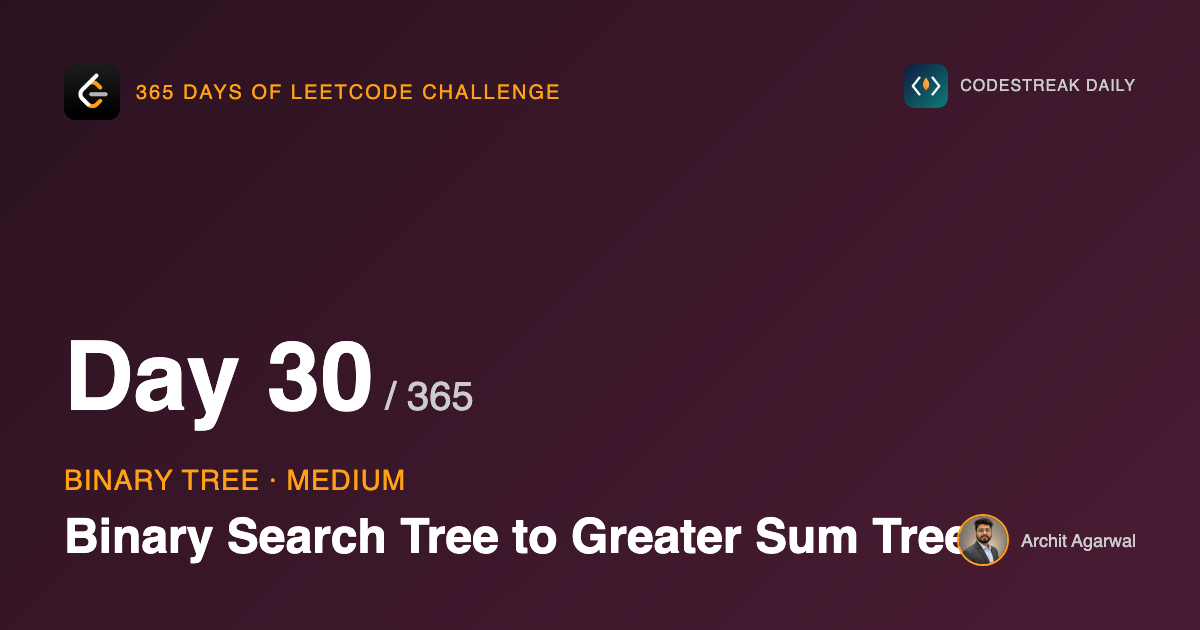
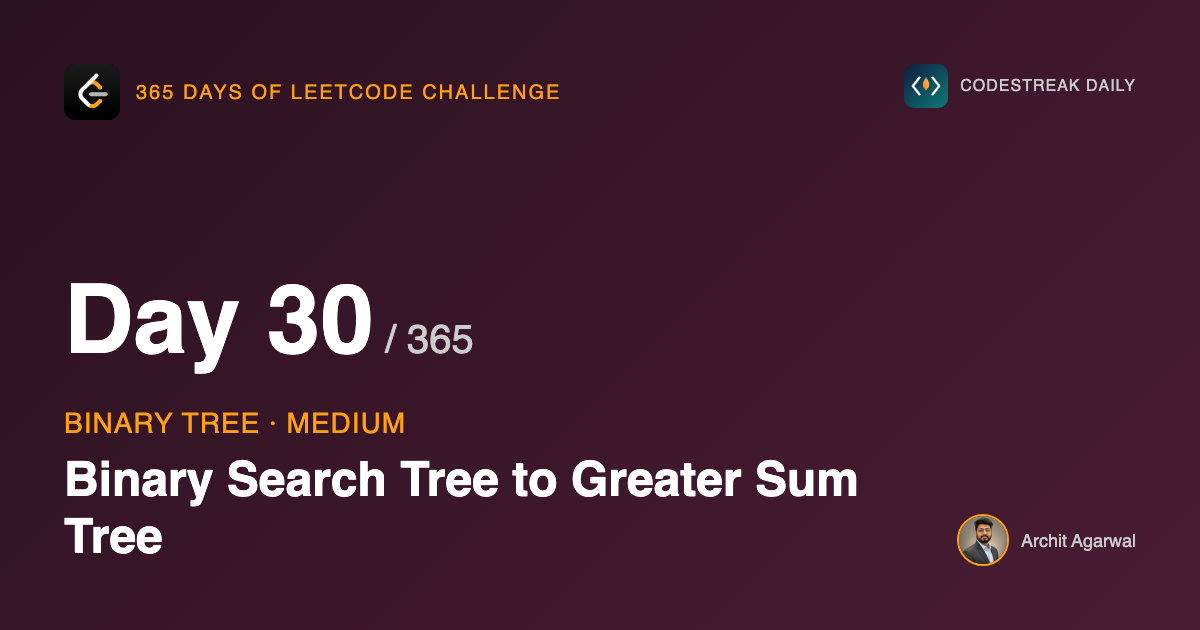
fix(challenge): wrap long hero titles so they clear the author block
Cap .title at 840px. Titles past ~36 characters were running underneath
the absolutely positioned .author block; days 30 and 31 were both clipped.
Re-rendered those two heroes.

Changed region(s): [[0.0308, 0.7238, 0.8017, 0.9048], [0.0308, 0.4222, 0.4008, 0.6937]]

diff --git a/challenge/hero_template.html b/challenge/hero_template.html
@@ -20,7 +20,9 @@
   .day { font-size: 96px; font-weight: 800; margin: 24px 0 0 0; }
   .day small { font-size: 40px; font-weight: 500; color: #cccccc; }
   .meta { font-size: 28px; color: #ffa116; text-transform: uppercase; letter-spacing: 1px; margin-bottom: 12px; }
-  .title { font-size: 48px; font-weight: 700; line-height: 1.2; }
+  /* Capped so a long title wraps instead of running under the absolutely
+     positioned .author block, whose left edge sits at roughly x=958. */
+  .title { font-size: 48px; font-weight: 700; line-height: 1.2; max-width: 840px; overflow-wrap: break-word; }
   .author {
     position: absolute; bottom: 64px; right: 64px;
     display: flex; align-items: center; gap: 12px;
